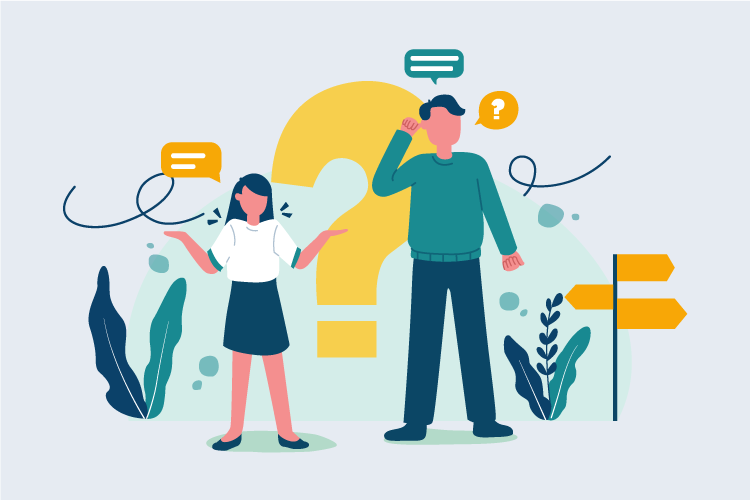
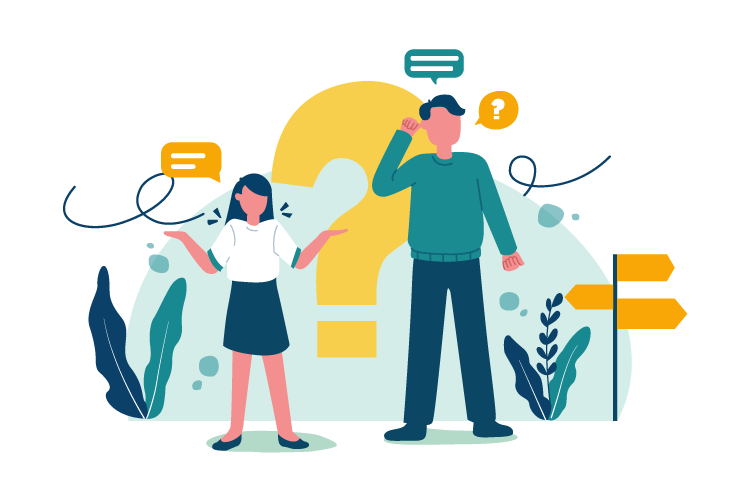
No task updated with new transparent background

diff --git a/lib/provider/theme_provider.dart b/lib/provider/theme_provider.dart
@@ -159,7 +159,7 @@ class ThemeProvider extends ChangeNotifier {
     }
     if (theme == 'white') {
       splashImage = 'assets/images/SplashScreenBlack.gif';
-      noTaskImage = "assets/images/blacknotask.png";
+      noTaskImage = "assets/images/notask.png";
       shimmerColor = blackShimmer;
       mainColor = blackMainColor;
       shadowColor = blackShadowColor;

diff --git a/lib/uiKit.dart b/lib/uiKit.dart
@@ -7,7 +7,7 @@ export 'screens/note_editing_screen.dart';
 export 'applocalizations.dart';
 export 'widgets/timepicker.dart';
 export 'widgets/buttons.dart';
-export 'widgets/colorpicker.dart';
+
 export 'screens/timer_screen.dart';
 export 'screens/donate_screen.dart';
 export 'widgets/dialog.dart';
